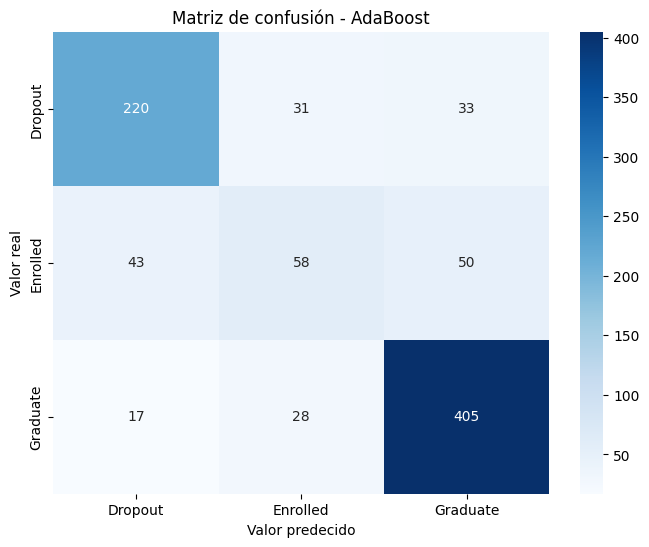
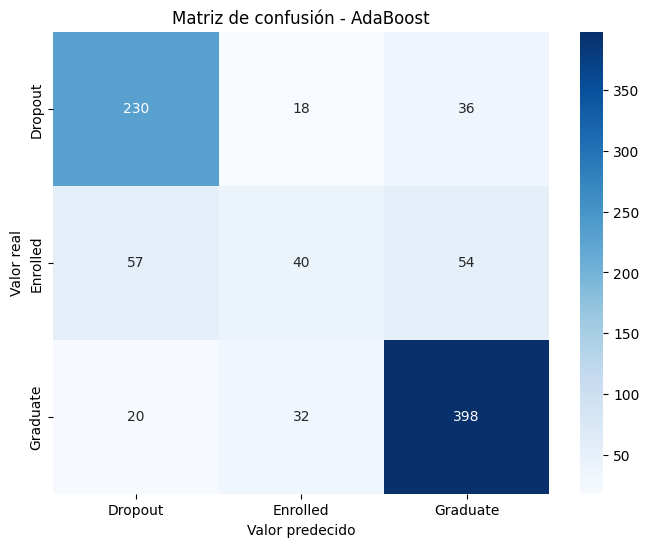
Usando algoritmo SAMME

diff --git a/src/services/models.py b/src/services/models.py
@@ -30,7 +30,7 @@ def models_data(data):
     rfc = RandomForestClassifier(random_state=2)
     lr = LogisticRegression(random_state=42)
     knn = KNeighborsClassifier(n_neighbors=3)
-    abc = AdaBoostClassifier(n_estimators=50, learning_rate=1, random_state=0)
+    abc = AdaBoostClassifier(n_estimators=50, learning_rate=1, random_state=0, algorithm='SAMME')
     sm = svm.SVC(kernel='linear', probability=True)
 
     #Entrenamiento
